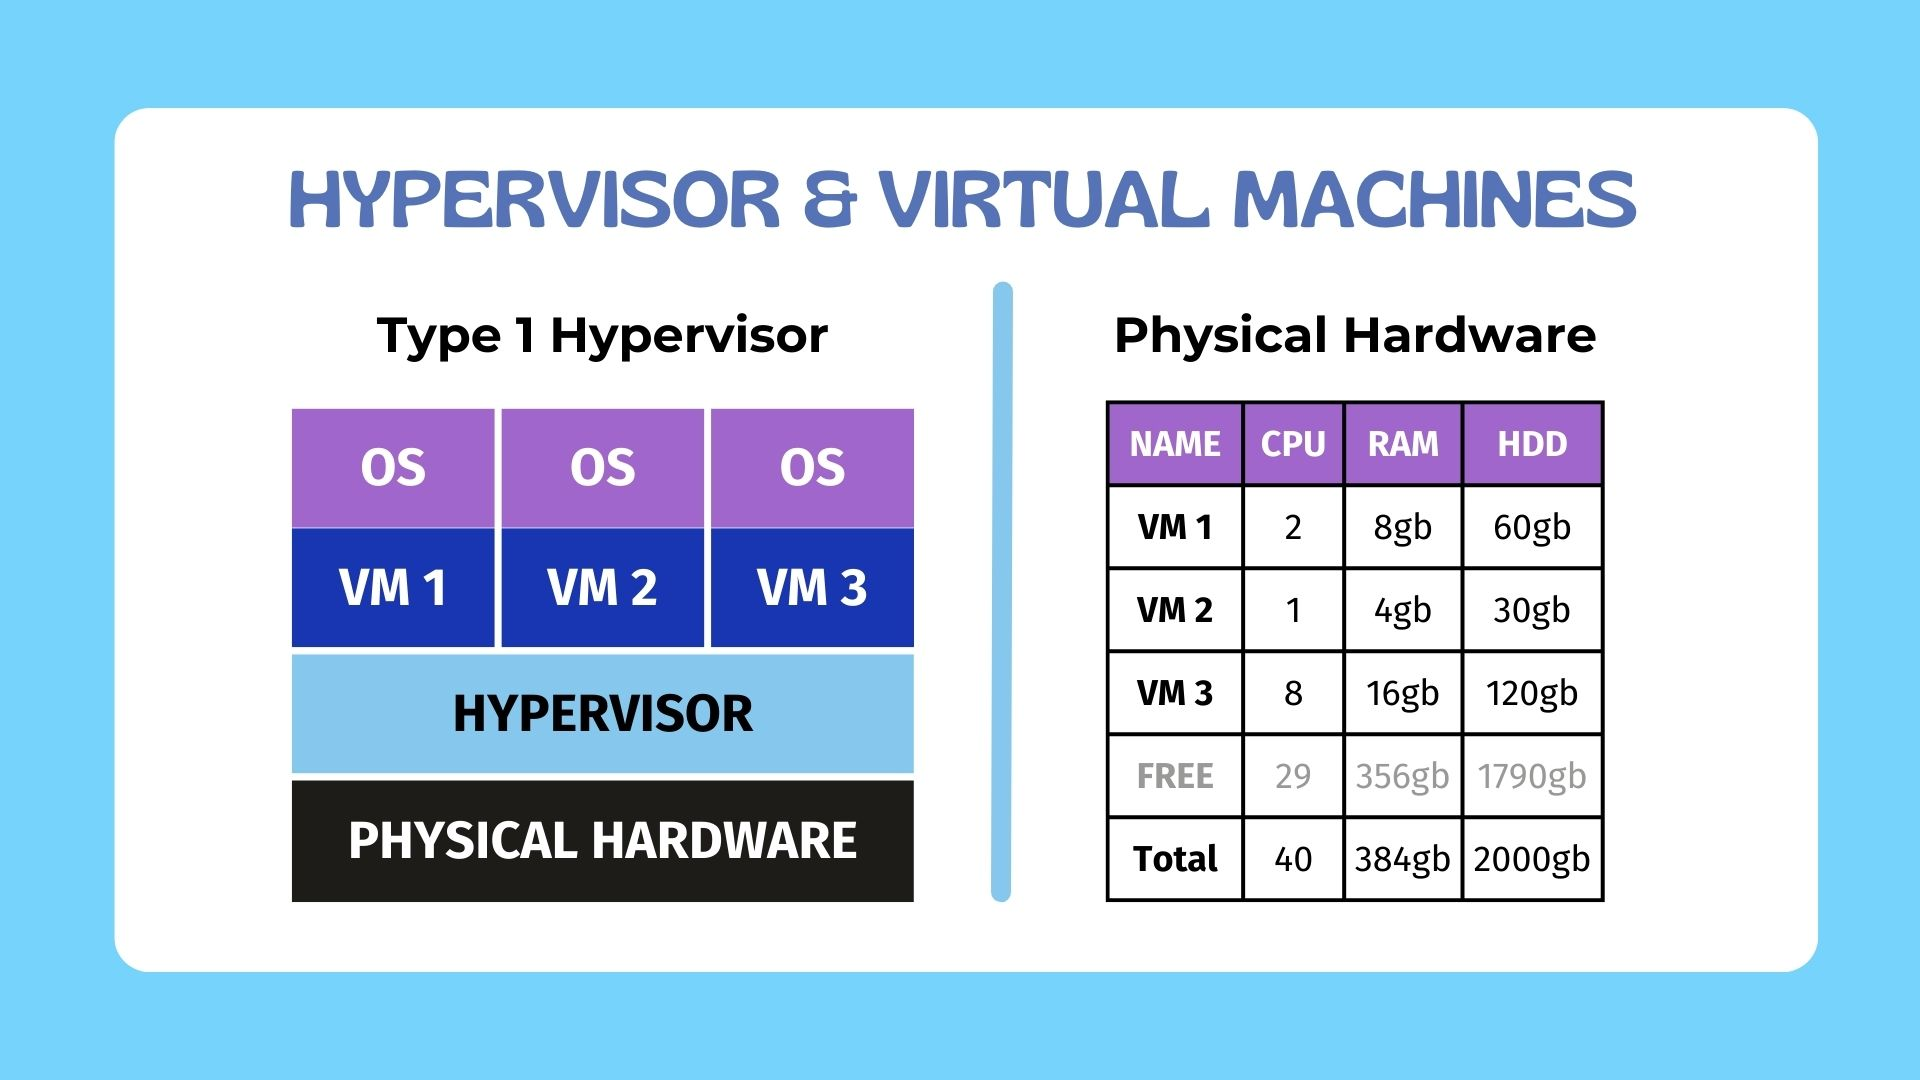
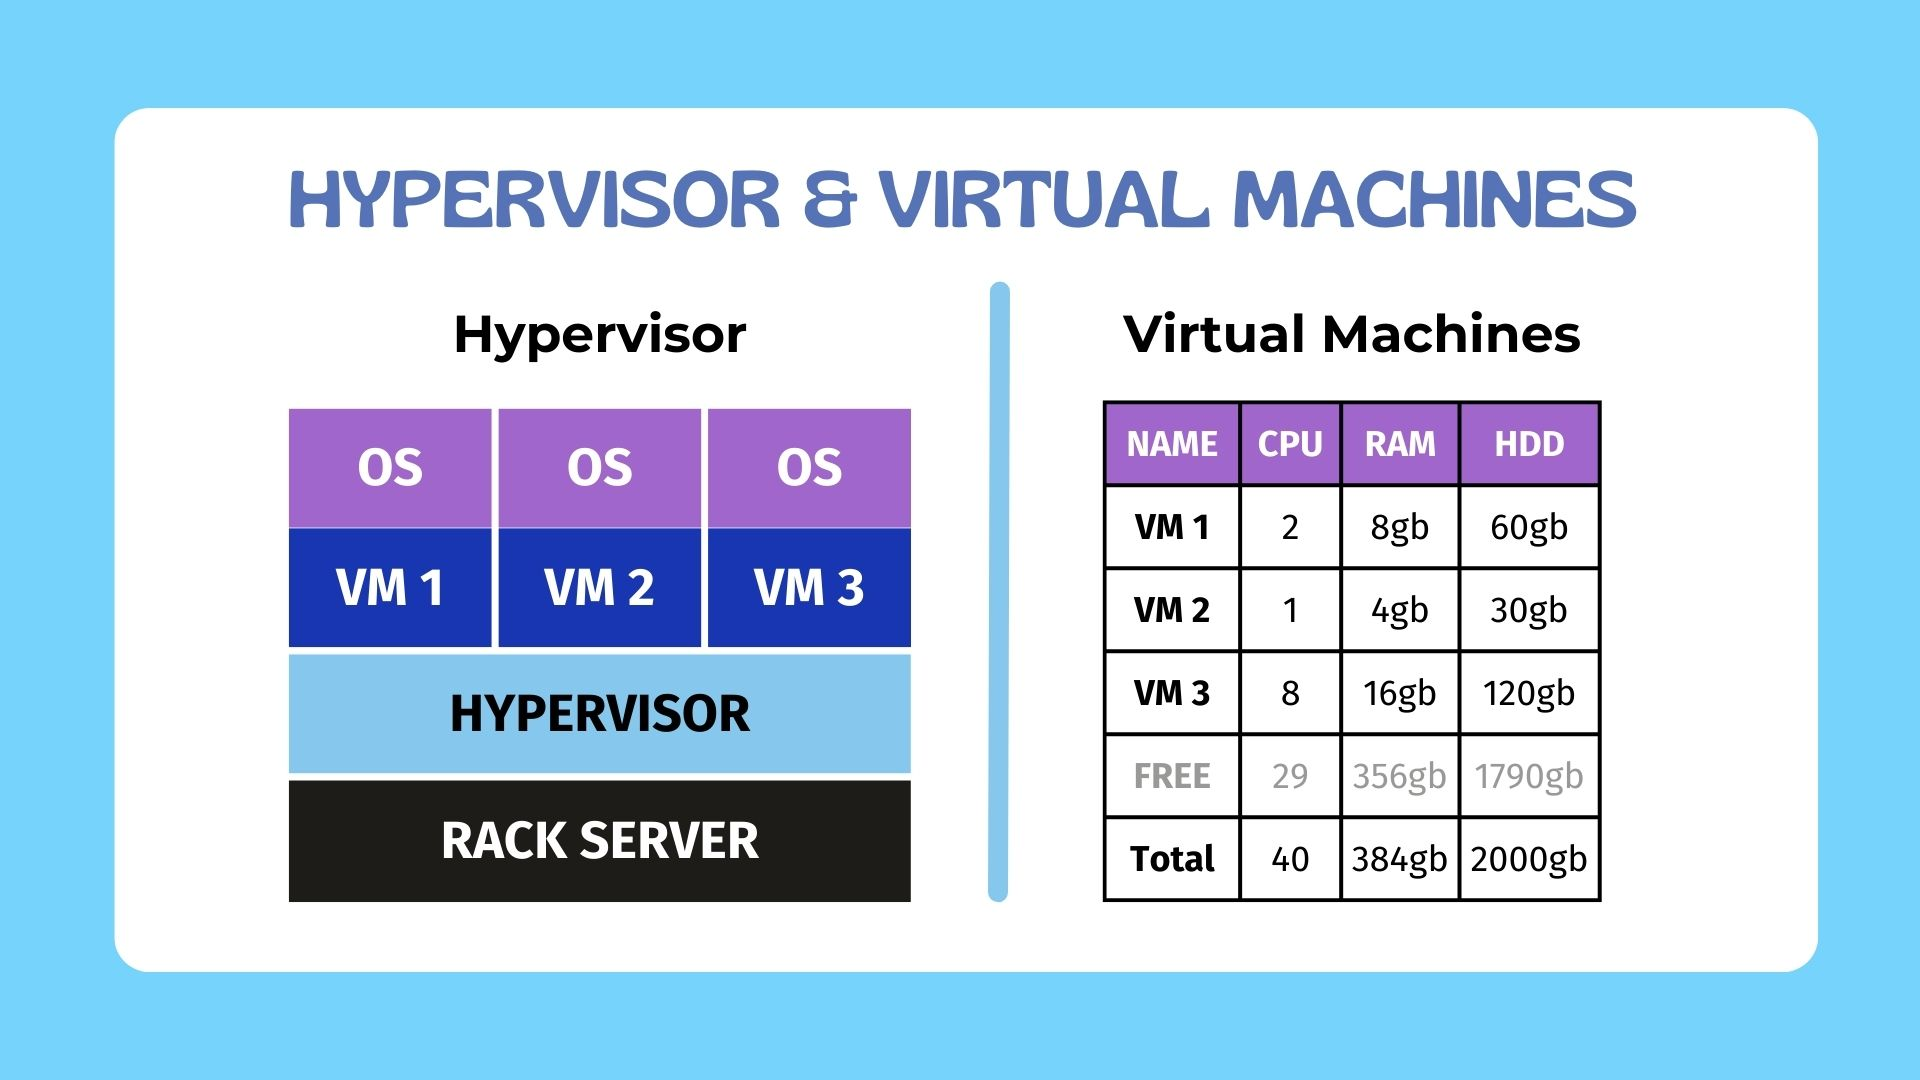
CP-CV01 updates - hypervisor types

diff --git a/courses/CP-CV01/index.htm b/courses/CP-CV01/index.htm
@@ -78,8 +78,11 @@
             <div id="slide13" class="carousel-item" data-index="13">
               <img src="img/13.jpg" class="d-block w-100" alt="...">
             </div>
-            <!--- make this next section# 1 more than the previous one (eg. if previous is section10 the below one would be section11) -->
             <div id="slide14" class="carousel-item" data-index="14">
+              <img src="img/14.jpg" class="d-block w-100" alt="...">
+            </div>            
+            <!--- make this next section# 1 more than the previous one (eg. if previous is section10 the below one would be section11) -->
+            <div id="slide15" class="carousel-item" data-index="15">
               <img src="../../img/course/tutorials/Knowledge.jpg" class="d-block w-100" alt="...">
             </div>
           </div>
@@ -111,19 +114,19 @@
           </section>
 
           <section id="section3" class="learnsection">
-            <h2>Pre-requisites</h2>
-            <p>Before we talk about the Cloud, let's understand the components behind the scenes.</p>
-            <p>We need to talk about:</p>
+            <h2>Our Learning Plan</h2>
+            <p>Before we talk about the Cloud, let's first understand the components behind the scenes and then you'll have a better understanding of the Cloud.</p>
+            <p>Topics to cover:</p>
             <ul>
               <li>Data Centers</li>
               <li>Hardware Resources</li>
-              <li>Rack Servers</li>
-              <li>Hypervisors & Virtual Machines</li>
+              <li>Rack Server</li>
+              <li>Hypervisor & Virtual Machines</li>
+              <li>Hypervisor Types</li>
               <li>What is the Cloud?</li>
               <li>The Cloud - A Convergence</li>
               <li>The Cloud Providers</li>                            
               <li>Control Plane Interfaces</li>
-              <li>Focus on the Business</li>
             </ul>
           </section>
 
@@ -188,9 +191,9 @@
 
             <b>Hypervisors</b>
             <p>A hypervisor, also known as a virtual machine monitor (VMM), is software that creates and manages virtual
-              machines (VMs). It acts as a bridge between the physical hardware and the virtual environment.
+              machines (VMs). It acts as a bridge between the physical hardware (rack server) and the virtual environment.
               Essentially, a hypervisor allows multiple operating systems to run concurrently on a single physical
-              machine.</p>
+              server.</p>
 
             <p>Key functions of a hypervisor:</p>
             <ul>
@@ -226,6 +229,32 @@
           </section>
 
           <section id="section8" class="learnsection">
+            <h2>Hypervisor Types</h2>
+
+            <p>Hypervisors are software that create and manage virtual machines (VMs). There are two main types of hypervisors: Type 1 and Type 2.</p>
+            
+            <b>Type 1 Hypervisor</b>
+            <p>A Type 1 hypervisor, also known as a bare-metal hypervisor, runs directly on the physical hardware without an underlying operating system. This provides a more efficient and secure environment for virtual machines.</p>
+            
+            <p>Examples of Type 1 hypervisors:</p>
+            <ul>
+            <li>VMware ESXi</li>
+            <li>Microsoft Hyper-V</li>
+            <li>KVM (Kernel-based Virtual Machine)</li>
+            </ul>
+            
+            <b>Type 2 Hypervisor</b>
+            <p>A Type 2 hypervisor runs as a software application on top of an existing operating system. This approach is often simpler to deploy but can have a performance overhead.  You generally don't see this setup in data centers but normally in home or lab environments at small scale.</p>
+            
+            <p>Examples of Type 2 hypervisors:</p>
+            <ul>
+            <li>Oracle VM VirtualBox</li>
+            <li>Parallels Desktop</li>
+            <li>VMWare Workstation</li>
+            </ul>            
+          </section>
+
+          <section id="section9" class="learnsection">
             <h2>So What is the Cloud?</h2>
             <p>At the core of cloud computing lies virtualization, achieved through a hypervisor,
               a software layer that manages the underlying hardware and creates isolated virtual environments.</p>
@@ -254,7 +283,7 @@
             </ul>
           </section>
 
-          <section id="section9" class="learnsection">
+          <section id="section10" class="learnsection">
             <h2>The Cloud: A Convergence</h2>
             <p>The cloud combines virtualization and software-defined resources to deliver a scalable, on-demand
               computing platform. By pooling physical resources and presenting them as virtualized services, cloud
@@ -275,7 +304,7 @@
 
           </section>          
 
-          <section id="section10" class="learnsection">
+          <section id="section11" class="learnsection">
             <h2>Major Cloud Providers</h2>
 
             <p>The cloud computing market is dominated by a few major players, each offering a comprehensive suite of cloud services.</p>
@@ -301,7 +330,7 @@
           </section>
 
 
-          <section id="section11" class="learnsection">
+          <section id="section12" class="learnsection">
             <h2>Control Plane Interfaces</h2>
             <p>The control plane encompasses the tools and interfaces used to interact with cloud resources. It
               typically includes:</p>
@@ -355,7 +384,7 @@
 
           </section>
 
-          <section id="section12" class="learnsection">
+          <section id="section13" class="learnsection">
             <h2>Why switch to the Cloud?</h2>
             <p>Focus on running your business, rather than the technology.</p>
   
@@ -394,7 +423,7 @@
             
           </section>
 
-          <section id="section13" class="learnsection">
+          <section id="section14" class="learnsection">
             <h2>A Review of the Topics</h2>
 
             <b>Data Centers</b>
@@ -420,7 +449,7 @@
           </section>
 
           <!--- make this next section# 1 more than the previous one (eg. if previous is section10 the below one would be section11) -->
-          <section id="section14" class="learnsection">
+          <section id="section15" class="learnsection">
             <h2>Congratulations!</h2>
             <p>What is next for you? Let's do a knowledge check to see if you completely grasped the concepts you
               just learned.</p>
@@ -437,7 +466,7 @@
       <div class="col-9">
         <div id="quizcontent" class="overflow-auto">
           <section id="q1" class="questions active" data-index="1">
-            <h3>1) What software creates and manages Virtual Machines?</h3>
+            <h3>1) What software directly creates and manages Virtual Machines?</h3>
 
             <input type="radio" name="q1a" class="answer q1 incorrect" id="q1-1">
             <input type="radio" name="q1a" class="answer q1 incorrect" id="q1-2">
@@ -445,16 +474,16 @@
             <input type="radio" name="q1a" class="answer q1 correct" id="q1-4">
 
             <label for="q1-1" class="box q1-1">
-              <div class="course"> <span class="circle"></span> <span class="subject"> a) Operating Systems. </span> </div>
+              <div class="course"> <span class="circle"></span> <span class="subject"> a) Cloud Providers. </span> </div>
             </label>
             <label for="q1-2" class="box q1-2">
-              <div class="course"> <span class="circle"></span> <span class="subject"> b) Chrome Browser. </span> </div>
+              <div class="course"> <span class="circle"></span> <span class="subject"> b) The Control Plane. </span> </div>
             </label>
             <label for="q1-3" class="box q1-3">
-              <div class="course"> <span class="circle"></span> <span class="subject"> c) Data Center. </span> </div>
+              <div class="course"> <span class="circle"></span> <span class="subject"> c) The Data Center Resource Manager. </span> </div>
             </label>
             <label for="q1-4" class="box q1-4">
-              <div class="course"> <span class="circle"></span> <span class="subject"> d) Hypervisor. </span></div>
+              <div class="course"> <span class="circle"></span> <span class="subject"> d) The Hypervisor. </span></div>
             </label>
             <div class="submit">
               <button type="button" class="btn btn-primary btn-md quizbutton" id="q1b" onclick="">Submit</button>
@@ -462,7 +491,7 @@
           </section>
 
           <section id="q2" class="questions" data-index="2">
-            <h3>2) What are 2 different ways to interface with the Control Plane?</h3>
+            <h3>2) What are 2 different ways users interface with the Control Plane?</h3>
 
             <input type="radio" name="q2a" class="answer q2 incorrect" id="q2-1">
             <input type="radio" name="q2a" class="answer q2 correct" id="q2-2">
@@ -479,7 +508,7 @@
               <div class="course"> <span class="circle"></span> <span class="subject"> c) CLI and Operating System. </span> </div>
             </label>
             <label for="q2-4" class="box q2-4">
-              <div class="course"> <span class="circle"></span> <span class="subject"> d) Linux and Ubuntu. </span></div>
+              <div class="course"> <span class="circle"></span> <span class="subject"> d) SDK and GPU. </span></div>
             </label>
             <div class="submit">
               <button type="button" class="btn btn-primary btn-md quizbutton" id="q2b" onclick="">Submit</button>
@@ -495,13 +524,13 @@
             <input type="radio" name="q3a" class="answer q3 incorrect" id="q3-4">
 
             <label for="q3-1" class="box q3-1">
-              <div class="course"> <span class="circle"></span> <span class="subject"> a) Low Profile, Multiple Storage and Dual CPU. </span> </div>
+              <div class="course"> <span class="circle"></span> <span class="subject"> a) Low Profile, Lots of Memory (RAM) and Dual Processors (CPU). </span> </div>
             </label>
             <label for="q3-2" class="box q3-2">
-              <div class="course"> <span class="circle"></span> <span class="subject"> b) Waterproof and stays cool naturally. </span> </div>
+              <div class="course"> <span class="circle"></span> <span class="subject"> b) A Metal rack to hold multiple servers. </span> </div>
             </label>
             <label for="q3-3" class="box q3-3">
-              <div class="course"> <span class="circle"></span> <span class="subject"> c) Best for Single User Login. </span> </div>
+              <div class="course"> <span class="circle"></span> <span class="subject"> c) A Location to house IT Equipment. </span> </div>
             </label>
             <label for="q3-4" class="box q3-4">
               <div class="course"> <span class="circle"></span> <span class="subject"> d) Small Form Factor, best for travel. </span></div>
@@ -523,13 +552,13 @@
               <div class="course"> <span class="circle"></span> <span class="subject"> a) A Warehouse used to Store Goods. </span> </div>
             </label>
             <label for="q4-2" class="box q4-2">
-              <div class="course"> <span class="circle"></span> <span class="subject"> b) A Software backup application on your PC. </span> </div>
+              <div class="course"> <span class="circle"></span> <span class="subject"> b) A Device where you store your data securely. </span> </div>
             </label>
             <label for="q4-3" class="box q4-3">
               <div class="course"> <span class="circle"></span> <span class="subject"> c) A Warehouse filled with specialized Computer Equipment. </span> </div>
             </label>
             <label for="q4-4" class="box q4-4">
-              <div class="course"> <span class="circle"></span> <span class="subject"> d) An Operating System for your Rack Server. </span></div>
+              <div class="course"> <span class="circle"></span> <span class="subject"> d) The Middle of your data storage. </span></div>
             </label>
             <div class="submit">
               <button type="button" class="btn btn-primary btn-md quizbutton" id="q4b" onclick="">Submit</button>
@@ -554,7 +583,7 @@
               <div class="course"> <span class="circle"></span> <span class="subject"> c) Quickly adjust resources to handle Unexpected traffic. </span> </div>
             </label>
             <label for="q5-4" class="box q5-4">
-              <div class="course"> <span class="circle"></span> <span class="subject"> d) Manually scale resources up or down based on demand. </span></div>
+              <div class="course"> <span class="circle"></span> <span class="subject"> d) Setup your servers to the highest traffic you receive (peak). </span></div>
             </label>
             <div class="submit">
               <button type="button" class="btn btn-primary btn-md quizbutton" id="q5b" onclick="">Submit</button>
